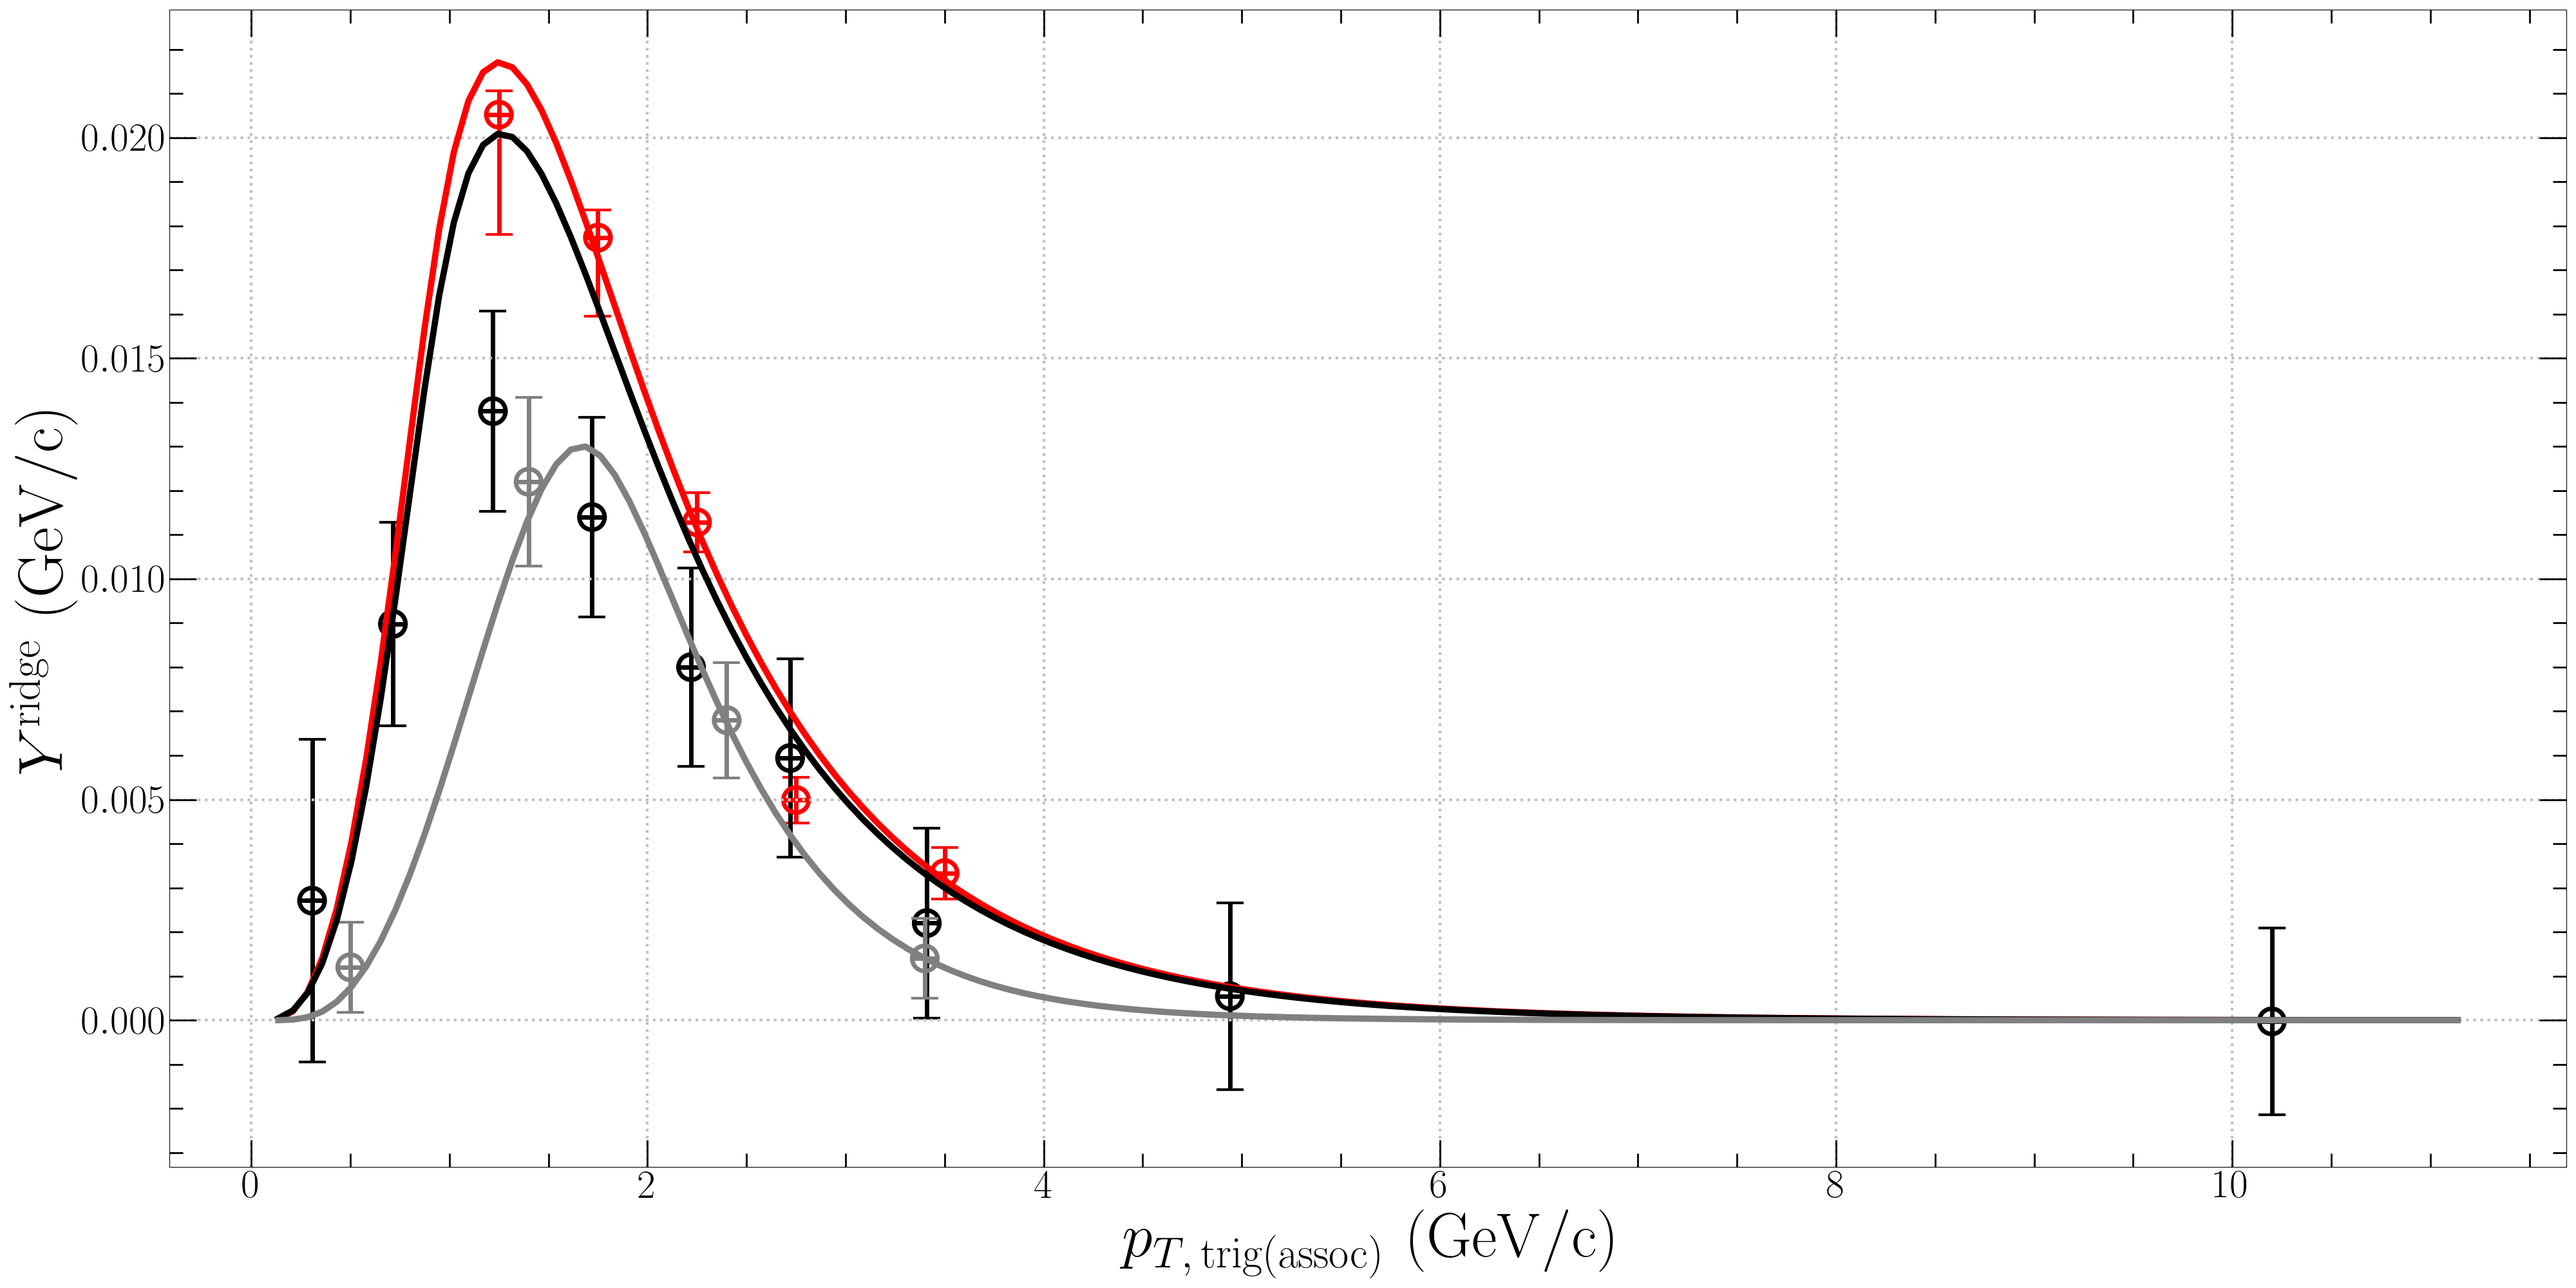
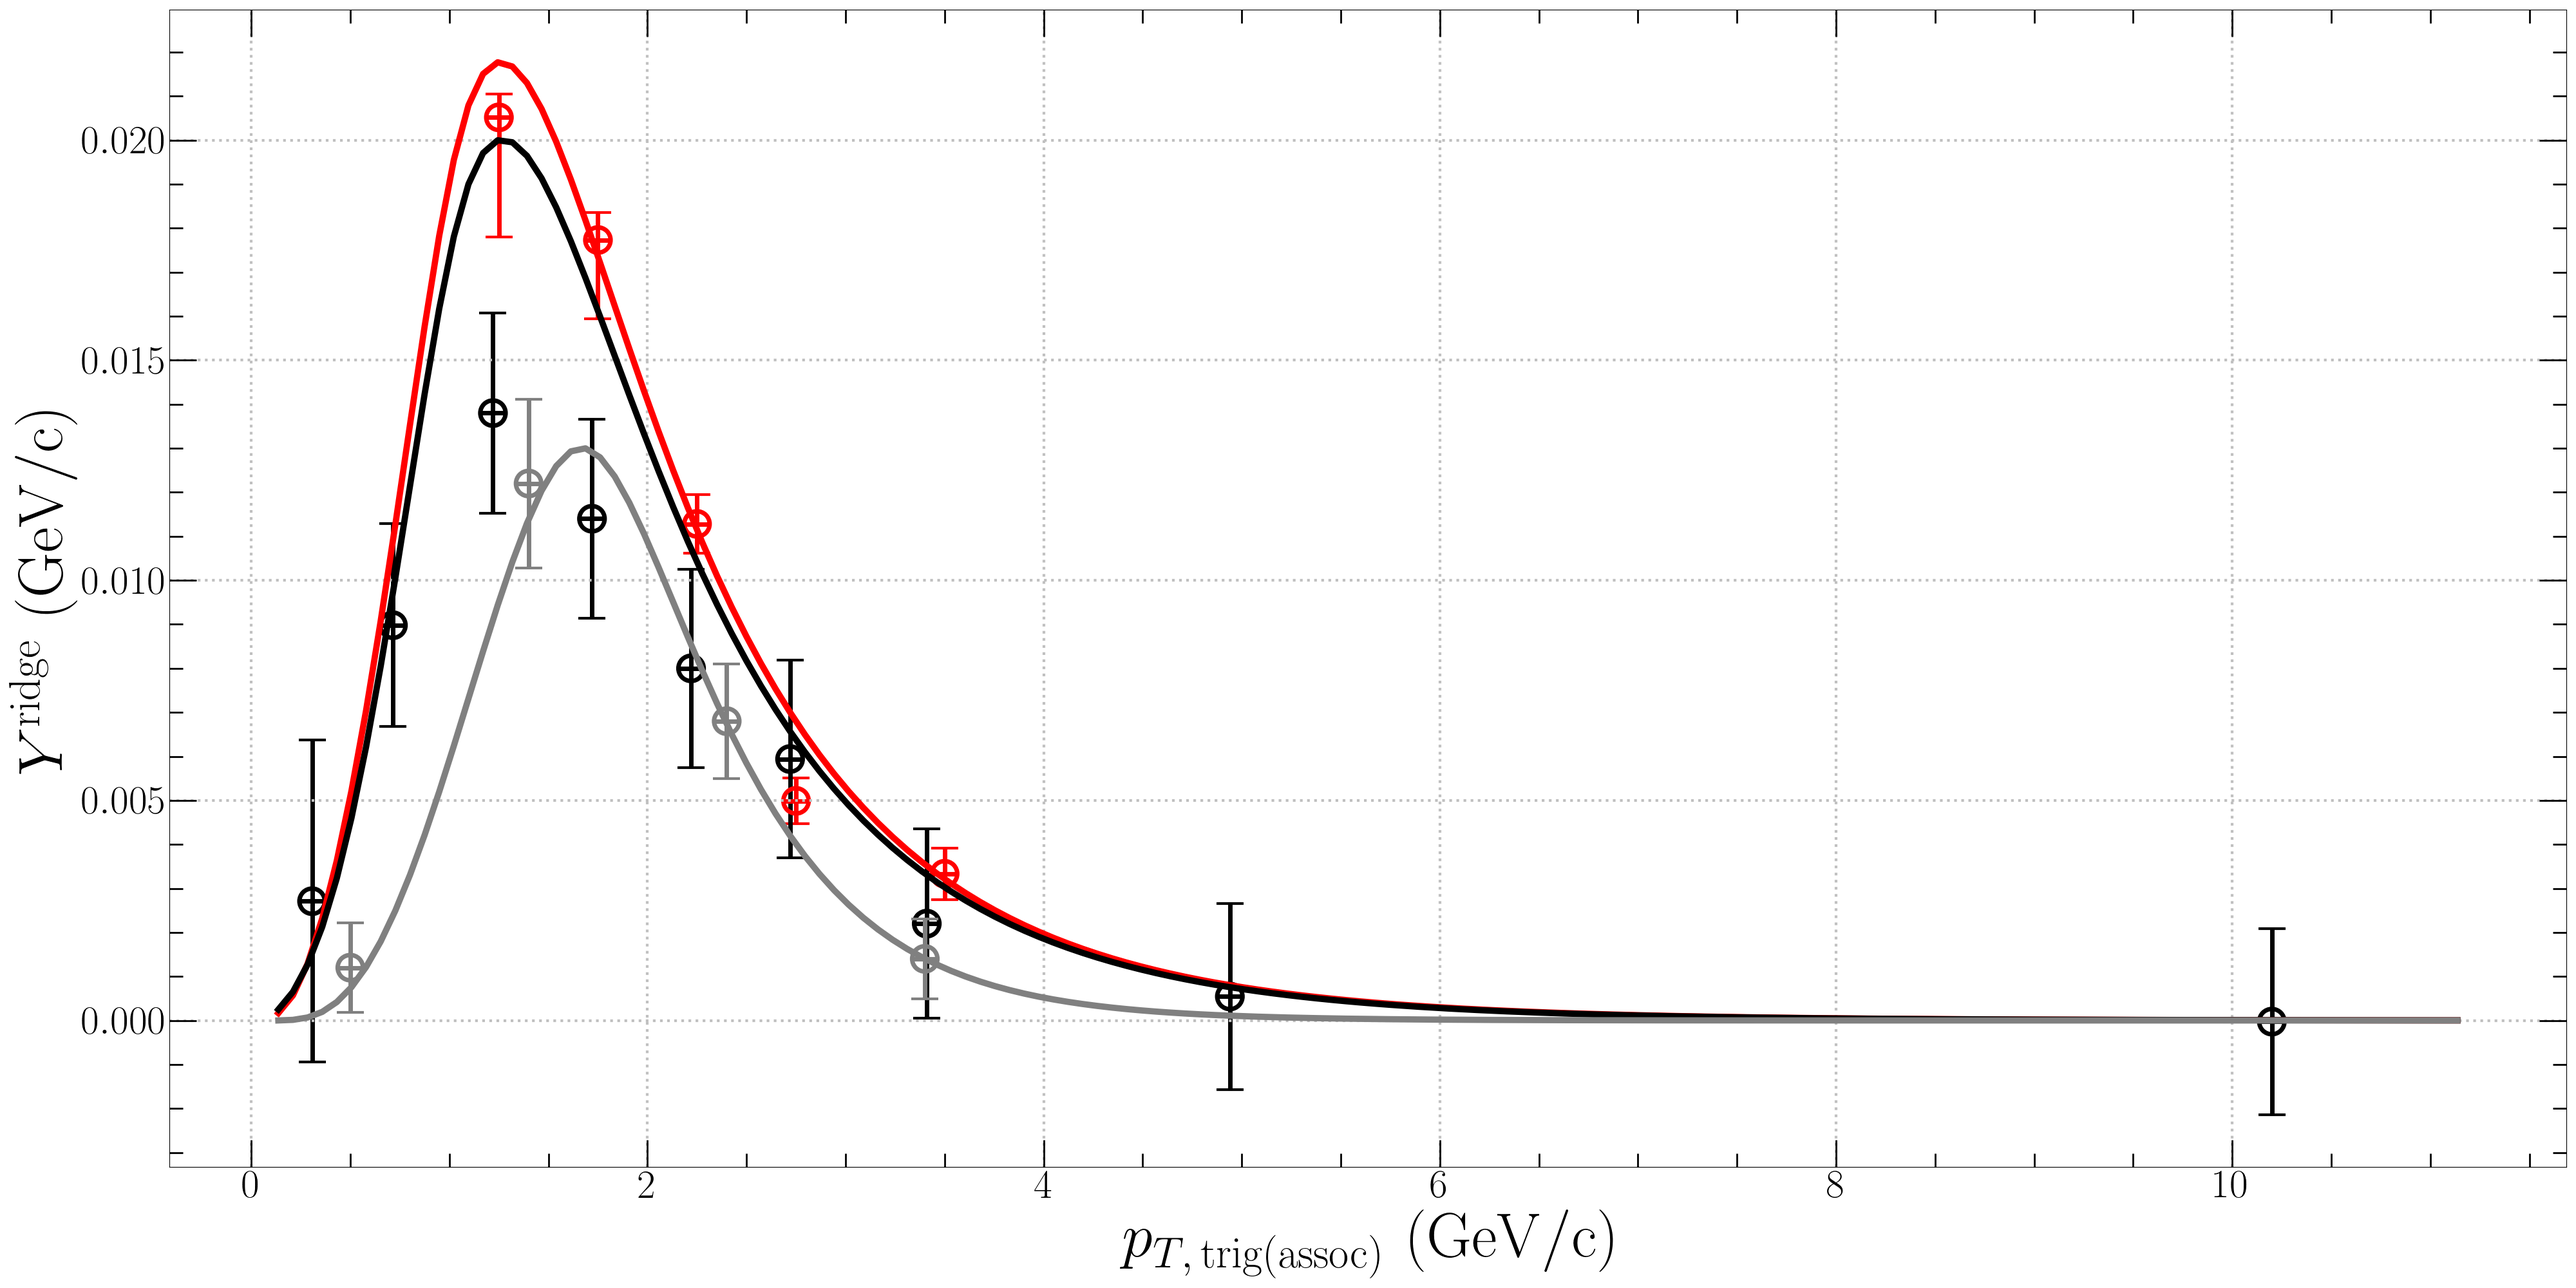
Testing...
Initial값을 바꾸면서 테스트 하는 중

diff --git a/class_pool.py b/class_pool.py
@@ -101,6 +101,7 @@ class Fitting_gpu:
         if error is None:
             if self.mode == "pTdependence":
                 popt, pcov = scipy.optimize.curve_fit(self.fitting_func, xdata = self.phi_array, ydata = self.data, bounds=self.boundary, p0 = self.initial)
+                return popt, self.chisq_error
             elif self.mode == "Multiplicity":
                 # self.Fixed_Temperature = Fixed_Temperature
                 # print(Fixed_parameters)     
@@ -247,6 +248,7 @@ class Fitting_gpu:
             self.__count = self.__count + 1
         if self.__count == 1 or self.__count%10==0:
             print(f"{self.__count}회", kick, Tem, xx, yy, zz, np.sum((result-self.data)**2))
+        self.chisq_error = np.sum((result-self.data)**2)
         return result
     
     def __ptdep(self, phi_array, etaf, ptf_dist, Aridge, kick, Tem, xx, yy, zz):
@@ -541,6 +543,7 @@ class Drawing_Graphs:
             print("Error! in Drawing Yridge Graph, Maybe Typo")
 
 '''여러 에러들 계산 ex) R-squared'''
+'''각 데이터를 따로 입력해야 함!'''
 class Error:
     __yi = (-10,10)
     __pti = (0,10)
@@ -550,22 +553,35 @@ class Error:
     __md = 1.   #GeV
     __mp = 0.938272046 #Proton mass, GeV
 
-    def __init__(self, phi_array, data, ptf, etaf):
+    def __init__(self, sqrSnn, phi_array, data, ptf, etaf):
         # data
         self.phi_array = phi_array
         self.data = data
         self.ptf = ptf
         self.etaf = etaf
+        self.sqrSnn = sqrSnn
 
-    def __FrNk(self, xx, yy, pt):
-        return xx+yy*pt*pt
+
+    def __FrNk(self, xx, yy, zz, pt):
+        return xx*cp.exp(-yy/pt-zz*pt)
 
     def R_squared(self, datatype, kick, Tem, xx, yy, zz):
-        if datatype=="pTdependence":
-            Rsq = self.fitting_func(self.phi_array, kick, Tem, xx, yy, zz)
-
+        if datatype == "pTdependence":
+            mean = np.mean(self.data)
+            fitting_result = self.fitting_func(self.phi_array, kick, Tem, xx, yy, zz)
+            SSR = np.sum((self.data-fitting_result)*(self.data-fitting_result))
+            SST = np.sum((self.data-mean)*(self.data-mean))
+            Rsq = 1-(SSR/SST)
+        elif datatype == "Multiplicity":
+            '''일단 루프만 만들어 두기는 했지만 의미 없을듯?'''
+            mean = np.mean(self.data)
+            fitting_result = self.fitting_func_multi(self.phi_array, kick, Tem, xx, yy, zz)
+            SSR = np.sum((self.data-fitting_result)*(self.data-fitting_result))
+            SST = np.sum((self.data-mean)*(self.data-mean))
+            Rsq = 1-(SSR/SST)            
         return Rsq
 
+        
     def fitting_func_multi(self, phi_array, kick):
         pass
         # Aridge_bin = 1000
@@ -609,10 +625,8 @@ class Error:
         dyi = (self.__yi[1] - self.__yi[0])/Aridge_bin
         Aridge = cp.asarray(1/np.sum(cpu.Aridge(pti, yi, Tem, self.__m, self.__md, self.__a, self.sqrSnn, self.__mp)*dyi*dpti*2*np.pi))
         deltapt = 1/(ptf_dist[1] - ptf_dist[0])
-        result = deltapt*self.__ptdep(given_array, self.etaf[0], self.ptf[0], Aridge, kick, Tem, xx, yy, zz)
-
- 
-        return result
+        result = deltapt*self.__ptdep(given_array, self.etaf, self.ptf, Aridge, kick, Tem, xx, yy, zz)
+        return result-min(result)
     
     def __ptdep(self, phi_array, etaf, ptf_dist, Aridge, kick, Tem, xx, yy, zz):
         bin = 300

diff --git a/main_class.py b/main_class.py
@@ -299,12 +299,14 @@ datacut()
 
 ptdep_result = []
 # ptdep_result = [1.04435586e+00, 1.39798449e+00, 3.13646871e+00, 4.16055192e-05, 1.39096183e-01]
+# ptdep_result = [9.62260664e-01, 1.08168335e+00, 2.61768147e+00, 2.84798146e-01, 4.17974797e-04]
 ptdep_result_07 = []
 ptdep_result_cm = []
 ptdep_error_cm = []
 multi_atlas_result = []
+ptdep_Rsq = []
 
-total_boundary = ((0.5, 1., 0, 0, 0),(4, 3., 5, 10, 10))
+total_boundary = ((0.5, 1., 0, 0, 0),(5, 4., 5, 10, 10))
 total_initial = (4.,  2., 1.5, 0, 0)
 '''Fitting 13TeV data'''
 def fit_13tev():
@@ -315,6 +317,8 @@ def fit_13tev():
     boundary = total_boundary
     '''initial parameters'''
     # initial = (1., 0.5, 2, 3, 0)
+
+
     initial = total_initial
     del phi_13TeV_ptdep_fitting[-1]
     del dat_13TeV_ptdep_fitting[-1]
@@ -329,6 +333,15 @@ def fit_13tev():
     elif len(result) == 5:
         result_temp = [result[0], result[1], result[2], result[3], result[4]]
     ptdep_result.extend(result_temp)
+    # ptdep_result = [9.62260664e-01, 1.08168335e+00, 2.61768147e+00, 2.84798146e-01, 4.17974797e-04]
+
+    '''ptf 개수가 결국 phi array 개수이다. 이렇게 해야 자동으로 Yridge를 제외하고 배열을 대입한다.'''
+    for i in range(len(ptf)):
+        # print(i, phi_13TeV_ptdep_fitting[i], dat_13TeV_ptdep_fitting[i], ptf[i], etaf[i])
+        ptdep_error = classes.Error(13000, phi_13TeV_ptdep_fitting[i], dat_13TeV_ptdep_fitting[i], ptf[i], etaf[i])
+        Error_Rsq = ptdep_error.R_squared("pTdependence", *ptdep_result)
+        ptdep_Rsq.append(Error_Rsq)
+    print(ptdep_Rsq)
 
 '''Fitting 7TeV data'''
 def fit_7tev():
@@ -413,7 +426,7 @@ fit_13tev()
 # fit_7tev()
 # fit_multipl()
 # fit_cmenerg()
-fit_multipl()
+# fit_multipl()
 
 
 # ptdep_result_cm = [np.array([6.50898500e-02, 1.00053422e+00, 1.99918447e+01, 3.15781968e-12, 1.91795188e-28]),
@@ -495,6 +508,13 @@ def drawgraph_ptdep_phicorr():
             en = i+1
             # axes1[i].set_title(str(st)+r'$<p_{T, \, \mathrm{trig(assoc)}}<$'+str(en), size = 70, pad=30)
             axes1[i].set_title(str(st)+r'$<p_{T, \, \mathrm{trig(assoc)}}<$'+str(en), size = 70, pad=30)
+        axes1[1].text(-1.18, 0.0165, fr"ALICE R-squared : {round(ptdep_Rsq[0], 3)}", size = 60)
+        axes1[1].text(-1.18, 0.0155, fr" \ CMS \ R-squared : {round(ptdep_Rsq[3], 3)}", size = 60)
+        axes1[2].text(-1.18, 0.0089, fr"ALICE R-squared : {round(ptdep_Rsq[1], 3)}", size = 60)
+        axes1[2].text(-1.18, 0.0083, fr" \ CMS \ R-squared : {round(ptdep_Rsq[4], 3)}", size = 60)
+        axes1[3].text(-1.18, 0.0042, fr"ALICE R-squared : {round(ptdep_Rsq[2], 3)}", size = 60)
+        axes1[3].text(-1.18, 0.0039, fr"\ CMS \ R-squared : {round(ptdep_Rsq[5], 3)}", size = 60)
+
         axes1[i].set_xlabel(r'$\Delta\phi$', size=70)
         axes1[i].minorticks_on()
         axes1[i].tick_params(axis='both',which='major',direction='in',width=2,length=30,labelsize=45, top = 'true', right='true')
@@ -765,7 +785,7 @@ print(f"FrNk end : {time_frnk-time_yridge:.3f} sec")
 # drawgraph_cmdep_phicorr()
 time_multi = time.time()
 print(f"Graph, Multiplicity end : {time_multi-time_frnk:.3f} sec")
-drawgraph_multi_phicorr()
+# drawgraph_multi_phicorr()
 
 time_end = time.time()
 print(f"Total end : {time_end-time_start:.3f} sec")
